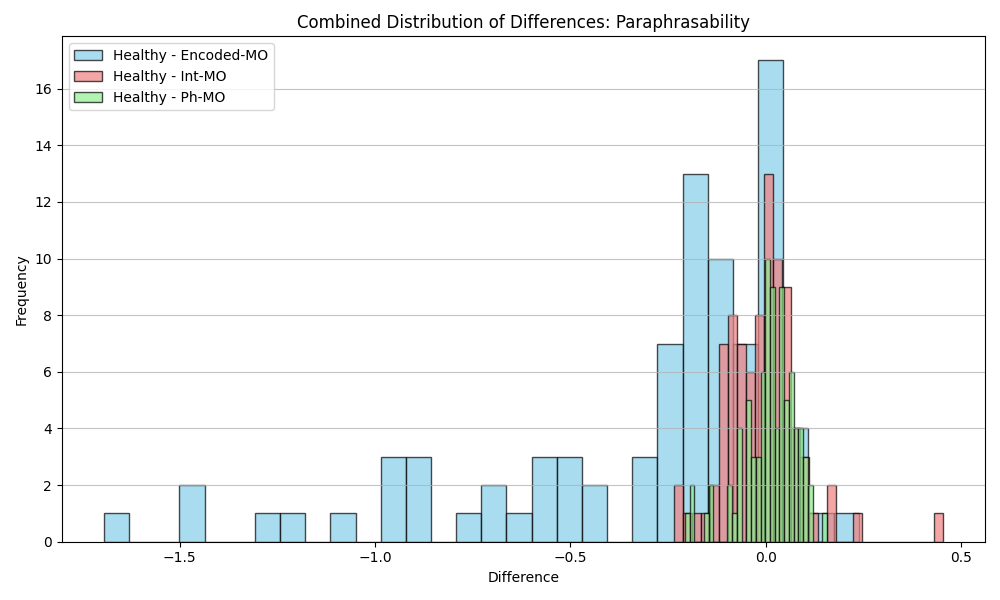
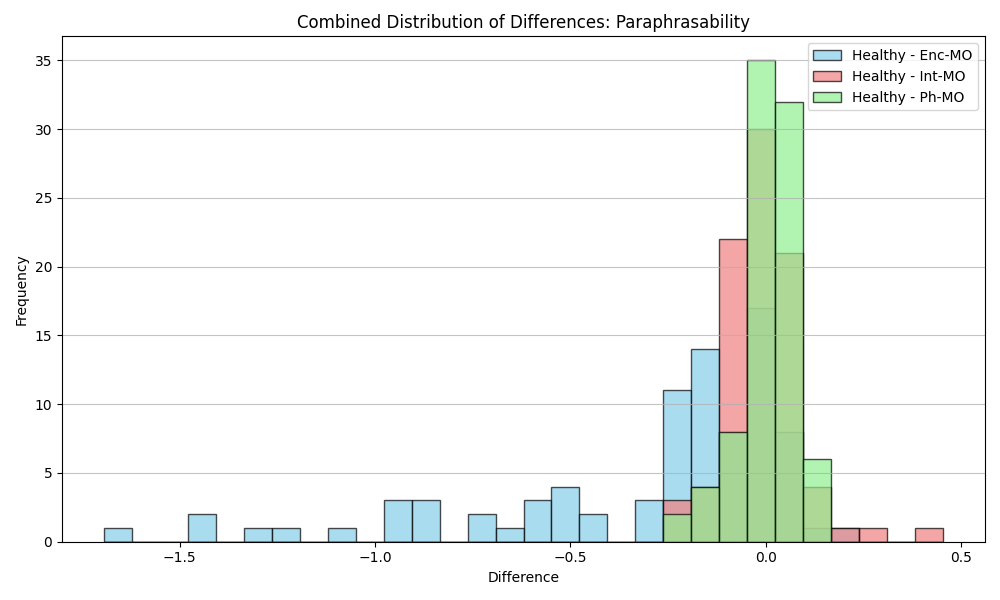
Bin sizes and labels correction

diff --git a/src/make_histograms.py b/src/make_histograms.py
@@ -77,9 +77,20 @@ def plot_combined_differences(metric_differences, metric, outdir):
     colors = ['skyblue', 'lightcoral', 'lightgreen']
     alpha = 0.7
 
+    # Calculate global min and max across all distributions
+    all_differences = []
+    for differences in metric_differences.values():
+        all_differences.extend(differences)
+
+    # Create consistent bins across all distributions
+    bins = 30
+    bin_range = (min(all_differences), max(all_differences))
+
     for i, (m_org, differences) in enumerate(metric_differences.items()):
-        plt.hist(differences, bins=30, color=colors[i], alpha=alpha,
-                edgecolor='black', label=f'Healthy - {m_org}')
+        # Replace 'Encoded-MO' with 'Enc-MO' for display
+        display_name = m_org.replace('Encoded-MO', 'Enc-MO')
+        plt.hist(differences, bins=bins, range=bin_range, color=colors[i], alpha=alpha,
+                edgecolor='black', label=f'Healthy - {display_name}')
 
     plt.title(f'Combined Distribution of Differences: {metric}')
     plt.xlabel('Difference')
